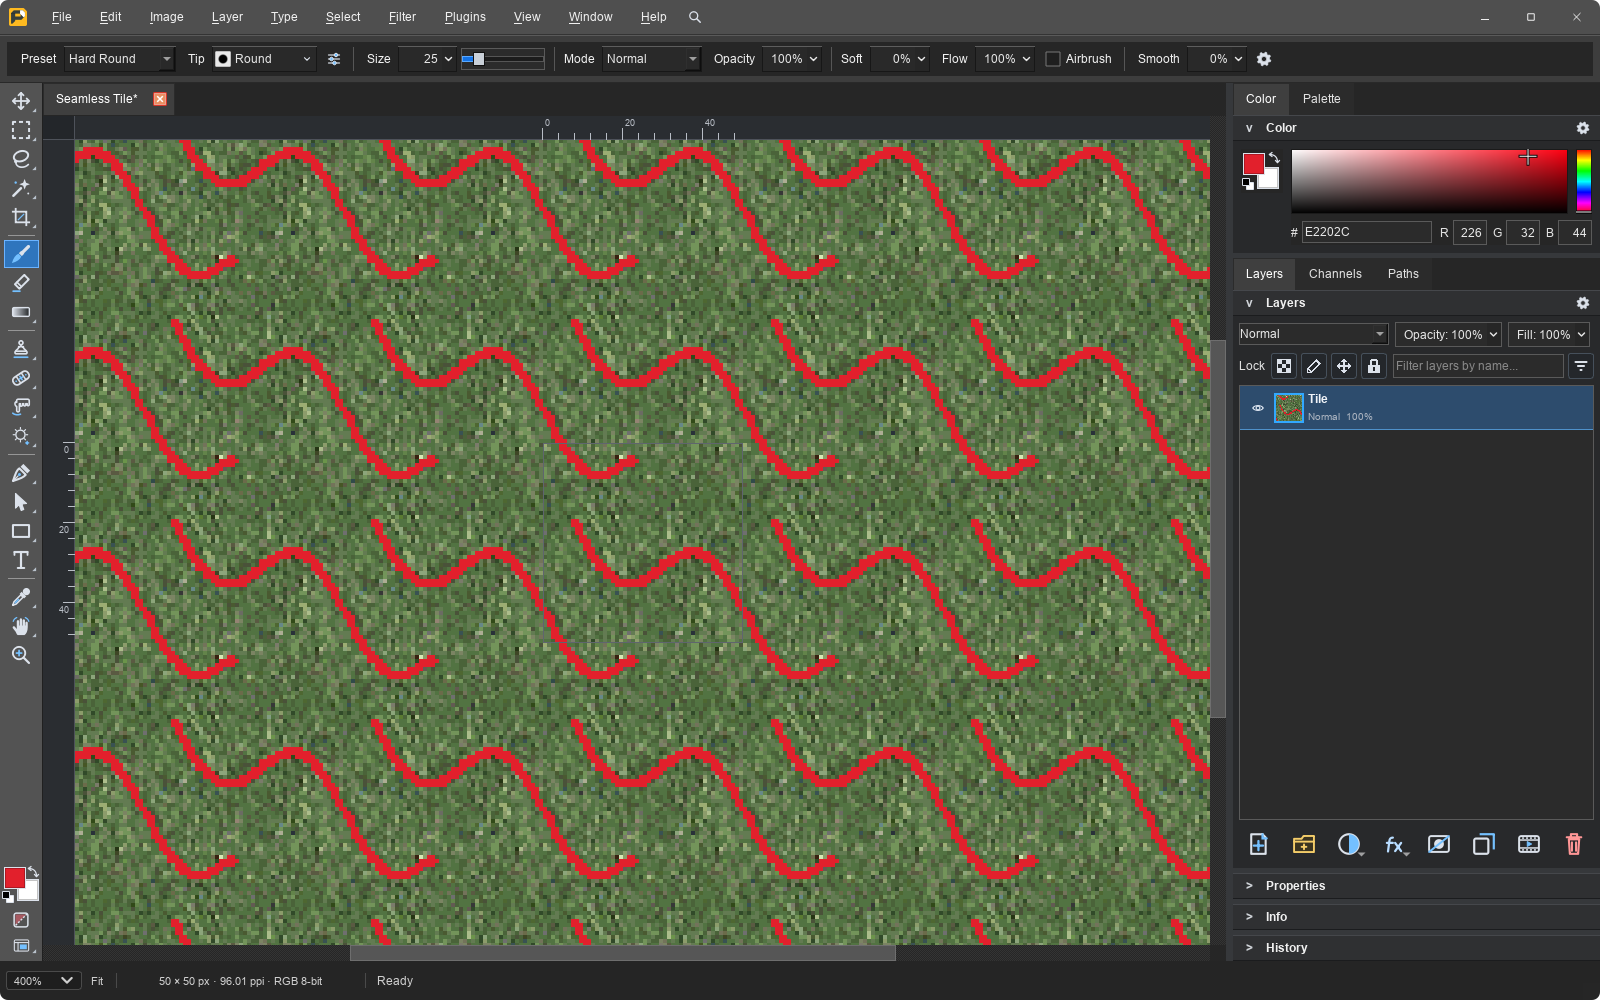
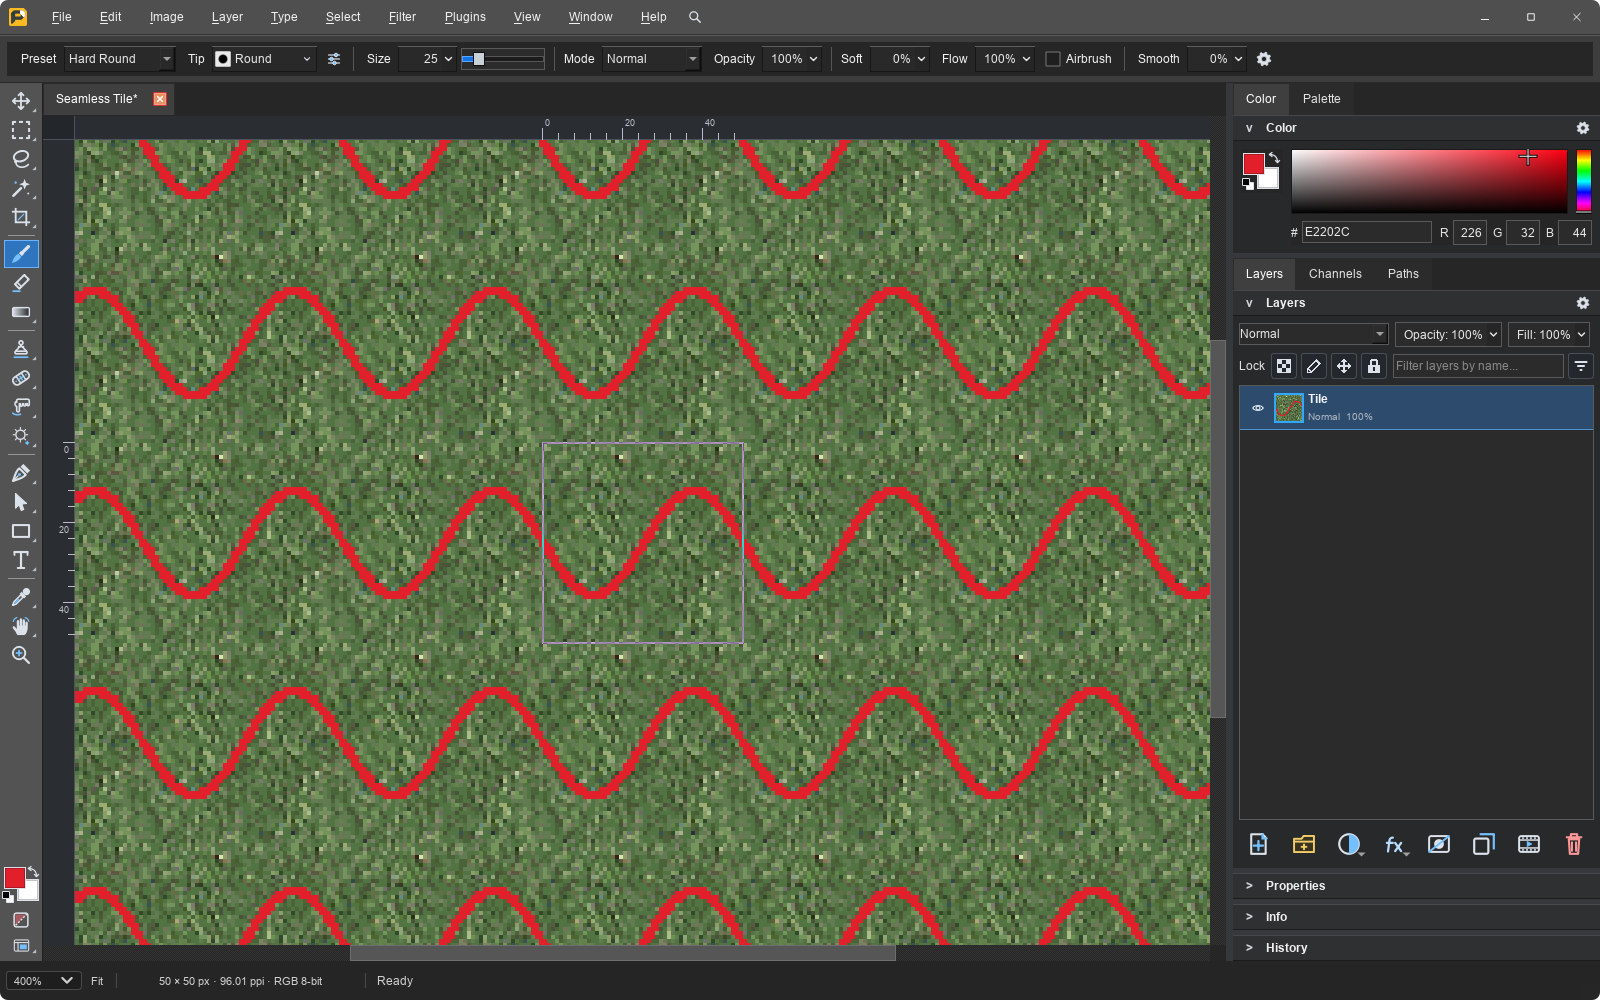
Tiling mode: invert the document outline so it reads on any texture; tile shot paints a periodic wave
The red line now leaves each edge where it enters the opposite one, so every copy joins up.

diff --git a/tests/ui/readme_screenshot_tests_classic.cpp b/tests/ui/readme_screenshot_tests_classic.cpp
@@ -1372,40 +1372,21 @@ void shot_readme_tile_preview() {
   canvas->center_document_in_view();
   QApplication::processEvents();
 
-  // A red squiggle drawn across the tile's right and bottom edges. Strokes do not wrap on
-  // their own, so it is painted the way a texture artist does it: where the line leaves the
-  // tile it carries on from the opposite edge. Each run overshoots its edge by 2 px so it
-  // reaches it fully. Every copy shows the line, joined up across the seams.
+  // A red wave across the tile, periodic in its 50 px: y = 25 + 13 sin(2 pi x / 50) leaves
+  // the right edge at the height it entered the left. One stroke from 3 px before the tile to
+  // 3 px past it (dabs outside the canvas are clipped), so every copy continues its
+  // neighbors' line without a break.
   canvas->set_brush_size(3);
   canvas->set_brush_softness(0);
   canvas->set_primary_color(QColor(226, 32, 44));
   {
-    constexpr double kTile = 50.0;
-    const auto wrap = [kTile](double v) { return v - std::floor(v / kTile) * kTile; };
-    std::vector<QPointF> run;
-    QPointF previous_cell;
-    for (int i = 0; i <= 600; ++i) {
-      const double t = i / 600.0;
-      const QPointF unwrapped(8.0 + t * 64.0, 20.0 + 9.0 * std::sin(t * 3.0 * 3.14159265358979323846) + t * 34.0);
-      const QPointF cell(std::floor(unwrapped.x() / kTile), std::floor(unwrapped.y() / kTile));
-      if (!run.empty() && cell != previous_cell) {
-        // Close this run 2 px past the edge it crossed, then start the next one 2 px before
-        // the opposite edge.
-        const QPointF step(cell.x() - previous_cell.x(), cell.y() - previous_cell.y());
-        const QPointF local(wrap(unwrapped.x()), wrap(unwrapped.y()));
-        run.push_back(local + step * kTile + step * 2.0);
-        paint_readme_polyline(*canvas, run);
-        run.clear();
-        run.push_back(local - step * 2.0);
-      }
-      if (i % 6 == 0 || run.empty()) {
-        run.emplace_back(wrap(unwrapped.x()), wrap(unwrapped.y()));
-      }
-      previous_cell = cell;
+    constexpr double kTwoPi = 2.0 * 3.14159265358979323846;
+    std::vector<QPointF> across;
+    for (int i = -6; i <= 106; ++i) {
+      const double x = i * 0.5;  // -3 .. 53
+      across.emplace_back(x, 25.0 + 13.0 * std::sin(kTwoPi * x / 50.0));
     }
-    if (run.size() >= 2) {
-      paint_readme_polyline(*canvas, run);
-    }
+    paint_readme_polyline(*canvas, across);
   }
   QApplication::processEvents();
 

diff --git a/src/ui/canvas_widget_render.cpp b/src/ui/canvas_widget_render.cpp
@@ -1141,8 +1141,18 @@ void CanvasWidget::paintEvent(QPaintEvent* event) {
     draw_rotated_document_border(painter);
   } else if (!border_rect.isEmpty() &&
              (document_ == nullptr || !document_has_artboards(std::as_const(*document_)))) {
+    painter.save();
     painter.setPen(theme().canvas_document_border);
+    if (tiling_ghosts_visible(exposed_rect)) {
+      // Seamless tiling mode: the outline sits on artwork on both sides (the document and
+      // its ghost copies), where a fixed color vanishes into the texture. It inverts what is
+      // under it instead, 2 px wide across the edge (the document's outermost pixel and the
+      // ghosts' first), so it reads on any image.
+      painter.setCompositionMode(QPainter::RasterOp_NotDestination);
+      painter.drawRect(border_rect.adjusted(-1.0, -1.0, 1.0, 1.0));
+    }
     painter.drawRect(border_rect);
+    painter.restore();
   }
   draw_selection_overlay(painter);
   upright_overlays.emplace(*this, &painter);

diff --git a/tests/ui/import_print_resolution_tests_import_export.cpp b/tests/ui/import_print_resolution_tests_import_export.cpp
@@ -1432,6 +1432,15 @@ void ui_canvas_tiling_mode_paints_ghost_tiles_live() {
   {
     const auto repainted = render_widget_image(*canvas);
     CHECK(color_close(repainted.pixelColor(ghost_point), QColor(40, 90, 200), 24));
+    // The document outline, over artwork on both sides in this mode, is the inverse of what
+    // is under it (it stays visible on any texture): at the left edge, mid height.
+    const auto edge = canvas->widget_position_for_document_point(QPoint(0, height / 2));
+    bool inverted_outline = false;
+    for (int x = edge.x() - 2; x <= edge.x() + 2; ++x) {
+      inverted_outline = inverted_outline ||
+                         color_close(repainted.pixelColor(QPoint(x, edge.y())), QColor(215, 165, 55), 24);
+    }
+    CHECK(inverted_outline);
   }
   save_widget_artifact("ui_canvas_tiling_mode", window);
 

diff --git a/src/ui/canvas_widget_render_rotated.cpp b/src/ui/canvas_widget_render_rotated.cpp
@@ -317,8 +317,15 @@ void CanvasWidget::draw_rotated_document_border(QPainter& painter) const {
     return;
   }
   painter.save();
-  painter.setRenderHint(QPainter::Antialiasing, true);
-  QPen pen(theme().canvas_document_border, 1.0);
+  if (tiling_preview_enabled_) {
+    // Over artwork on both sides in seamless tiling mode: invert what is under the outline
+    // (see the upright border in canvas_widget_render.cpp). A raster op takes no
+    // antialiasing.
+    painter.setCompositionMode(QPainter::RasterOp_NotDestination);
+  } else {
+    painter.setRenderHint(QPainter::Antialiasing, true);
+  }
+  QPen pen(theme().canvas_document_border, tiling_preview_enabled_ ? 2.0 : 1.0);
   pen.setCosmetic(true);
   painter.setPen(pen);
   painter.setBrush(Qt::NoBrush);

diff --git a/docs/import.md b/docs/import.md
@@ -84,5 +84,5 @@ Opening a `.pdf` raises the Import PDF page picker (`pdfImportDialog`, `src/ui/p
 Three cooperating features for tile art:
 
 - **Seamless Tile Preview** (View menu): a Qt::Tool window polling a CONST-only revision probe (mutable Layer accessors bump revisions; see [performance.md](performance.md)) and closing via a `done(int)` override (see [ui-conventions-dialogs.md](ui-conventions-dialogs.md); `ui_tile_preview_window_tracks_document_edits` pins it). The tick has three content bands: probe changes re-render immediately at or below 1 Mpx, after the probe holds still for one tick up to 16 Mpx (so brush drags are not recomposited per tick), and via the manual Refresh button beyond that. A document IDENTITY change (tab switch/open/close; separate pointer+dims probe) re-renders immediately at any size, so `tick()` must never early-return before probing (otherwise the window freezes on documents over 1 Mpx; `ui_tile_preview_follows_document_switches_and_large_edits` pins it).
-- **Seamless Tiling in Window** (View menu, per-document check synced in `activate_document_tab`): CanvasWidget paints wrap copies of the committed composite around the document: `draw_tiling_preview` in canvas_widget_render.cpp draws from `render_cache_`/display mips (session previews and all overlays stay on the center tile), with a textured-fill fallback above ~24 visible ghost tiles from a pixmap cache cleared in `invalidate_display_mip_cache()`. Partial updates in `document_changed_impl` replicate dirty rects across visible wrap offsets (or widen to a full update on the textured path); `ui_canvas_tiling_mode_paints_ghost_tiles_live` pins ghost pixels, live stroke replication (via PaintRegionRecorder), and the per-tab check sync. The action handler is on `triggered`, not `toggled`, so the tab-switch setChecked sync cannot re-apply it.
+- **Seamless Tiling in Window** (View menu, per-document check synced in `activate_document_tab`): CanvasWidget paints wrap copies of the committed composite around the document: `draw_tiling_preview` in canvas_widget_render.cpp draws from `render_cache_`/display mips (session previews and all overlays stay on the center tile), with a textured-fill fallback above ~24 visible ghost tiles from a pixmap cache cleared in `invalidate_display_mip_cache()`. The document outline (`canvas_document_border`) is drawn as a 2 px `RasterOp_NotDestination` band across the document edge in this mode (upright and rotated), so it inverts the artwork under it and stays visible on any texture; `ui_canvas_tiling_mode_paints_ghost_tiles_live` checks the inverted pixel. Partial updates in `document_changed_impl` replicate dirty rects across visible wrap offsets (or widen to a full update on the textured path); `ui_canvas_tiling_mode_paints_ghost_tiles_live` pins ghost pixels, live stroke replication (via PaintRegionRecorder), and the per-tab check sync. The action handler is on `triggered`, not `toggled`, so the tab-switch setChecked sync cannot re-apply it.
 - **Shift Seams to Center** (Image menu + a button in the preview window): `wrap_offset_document` (core/document_geometry.cpp) wrap-rolls raster layers (normalized to the canvas rect first), layer masks (expanded over default_color), and document channels; object-like layers (text, shape layers, placed records) translate whole without wrapping and shape layers re-raster via the `transform_document_vector_data` translate pass. The applied offset is recorded in document metadata (`kTileSeamOffsetMetadataKey` in tile_preview_window.hpp, "dx,dy") so the second press applies the exact inverse even for odd dimensions and undo/redo (whole-Document snapshots) can never desync the parity. The MainWindow toggle follows the rotate-canvas template including the smart-object guard. Rolling only permutes pixels, so palette-mode docs need no snap.

diff --git a/README.md b/README.md
@@ -62,7 +62,7 @@ Click an image for the full-size capture.
 <table>
   <tr>
     <td valign="top" width="50%"><a href="docs/images/screenshots/layered_import.png"><img src="docs/images/screenshots/layered_import.png" width="460" alt="Why settle for only .psd? An introduction above eight labeled artboards in a 4 by 2 grid: Photoshop game artwork, Affinity game tips, a Krita character painting, a GIMP planet illustration, an OpenRaster city poster, a Paint.NET landscape, a layered TIFF print design, and Aseprite pixel art, with imported layers visible in the Layers panel."></a><br><strong>Eight formats with layers, one document</strong><br>PSD/PSB, Affinity, Krita, GIMP, OpenRaster, Paint.NET, layered TIFF, and Aseprite artwork, each imported onto its own artboard with its layer stack intact. Editable SVG and PDF imports are available too. See the <a href="docs/features-files.md#layered-format-interchange">format support and limitations</a>.</td>
-    <td valign="top" width="50%"><a href="docs/images/screenshots/tile_preview.png"><img src="docs/images/screenshots/tile_preview.png" width="460" alt="Seamless tiling mode repeating one 50 by 50 pixel Dink Smallwood grass tile, a red squiggle painted across its edges joining up in every copy."></a><br><strong>Make game textures that tile</strong><br>Seamless tiling mode repeats the canvas live, so a line painted across an edge meets itself in every copy. Palette mode, sprite sheets, and animated GIF, WebP and PNG are there for game art too.</td>
+    <td valign="top" width="50%"><a href="docs/images/screenshots/tile_preview.png"><img src="docs/images/screenshots/tile_preview.png" width="460" alt="Seamless tiling mode repeating one 50 by 50 pixel Dink Smallwood grass tile, a red wave painted across it joining up in every copy."></a><br><strong>Make game textures that tile</strong><br>Seamless tiling mode repeats the canvas live, so a line painted across an edge meets itself in every copy. Palette mode, sprite sheets, and animated GIF, WebP and PNG are there for game art too.</td>
   </tr>
   <tr>
     <td valign="top" width="50%"><a href="docs/images/screenshots/object_select.png"><img src="docs/images/screenshots/object_select.png" width="460" alt="Object Selection tool with a vintage car selected in a busy Havana street from one loose box drag, the rest of the photo muted."></a><br><strong>Select the object, not the box</strong><br>Drag a loose box around anything and Object Selection picks out just the object. Runs on your CPU.</td>

diff --git a/docs/readme-showcase-scenes.md b/docs/readme-showcase-scenes.md
@@ -42,10 +42,12 @@ between frames. The driver publishes `.webp` artifacts beside the PNGs.
   pale tower right of the skyline is left partly clear on purpose; it is what the brush is
   for. Never go back to a drawn shape: the old feathered capsule read as fake.
 - Seamless tiling: the document is one Dink tile, which is 50 x 50 pixels (never a bigger
-  picture composed of tiles), at 400% (below the pixel grid's zoom). A red squiggle is painted
-  across its right and bottom edges: strokes do not wrap on their own, so the scene splits the
-  curve where it leaves the tile and continues it from the opposite edge, each run overshooting
-  2 px. The copies then show the line joined across every seam, which is the point of the shot.
+  picture composed of tiles), at 400% (below the pixel grid's zoom). A red wave periodic in the
+  tile, y = 25 + 13 sin(2 pi x / 50), is painted as one stroke from x = -3 to 53, so it leaves
+  the right edge at the height it entered the left and every copy continues it. A curve whose
+  ends do not meet (the first attempt) leaves loose ends in every copy: check the copies with
+  each other, not by eye. The ghost copies render exactly (identical pixels); the line around
+  the center tile is the document outline, inverted in tiling mode.
 - Dink theme: applied without trusting its scripts (nothing plays on its own); the scene plays
   main.js's start-screen walk sprite and advances it 3 s. Recent files are emptied first (and
   restored) so no local path shows; the themed Preferences paints its own title bar, so it is

diff --git a/docs/screenshots.md b/docs/screenshots.md
@@ -141,7 +141,7 @@ Click any image to inspect it at full size. These are captures of the real edito
 </tr>
 <tr>
 <td align="center" valign="top" width="50%">
-      <a href="images/screenshots/tile_preview.png"><img src="images/screenshots/tile_preview.png" width="430" alt="Seamless tiling mode repeating one 50 by 50 pixel Dink Smallwood grass tile at 400 percent, a red squiggle painted across its edges joining up in every copy"></a>
+      <a href="images/screenshots/tile_preview.png"><img src="images/screenshots/tile_preview.png" width="430" alt="Seamless tiling mode repeating one 50 by 50 pixel Dink Smallwood grass tile at 400 percent, a red wave painted across it that leaves the right edge at the height it enters the left, joining up in every copy"></a>
       <br><sub>Seamless tiling mode repeats the canvas live, so a line painted across an edge has to meet itself in every copy: here a single 50 x 50 grass tile from Dink Smallwood</sub>
     </td>
 <td align="center" valign="top" width="50%">
